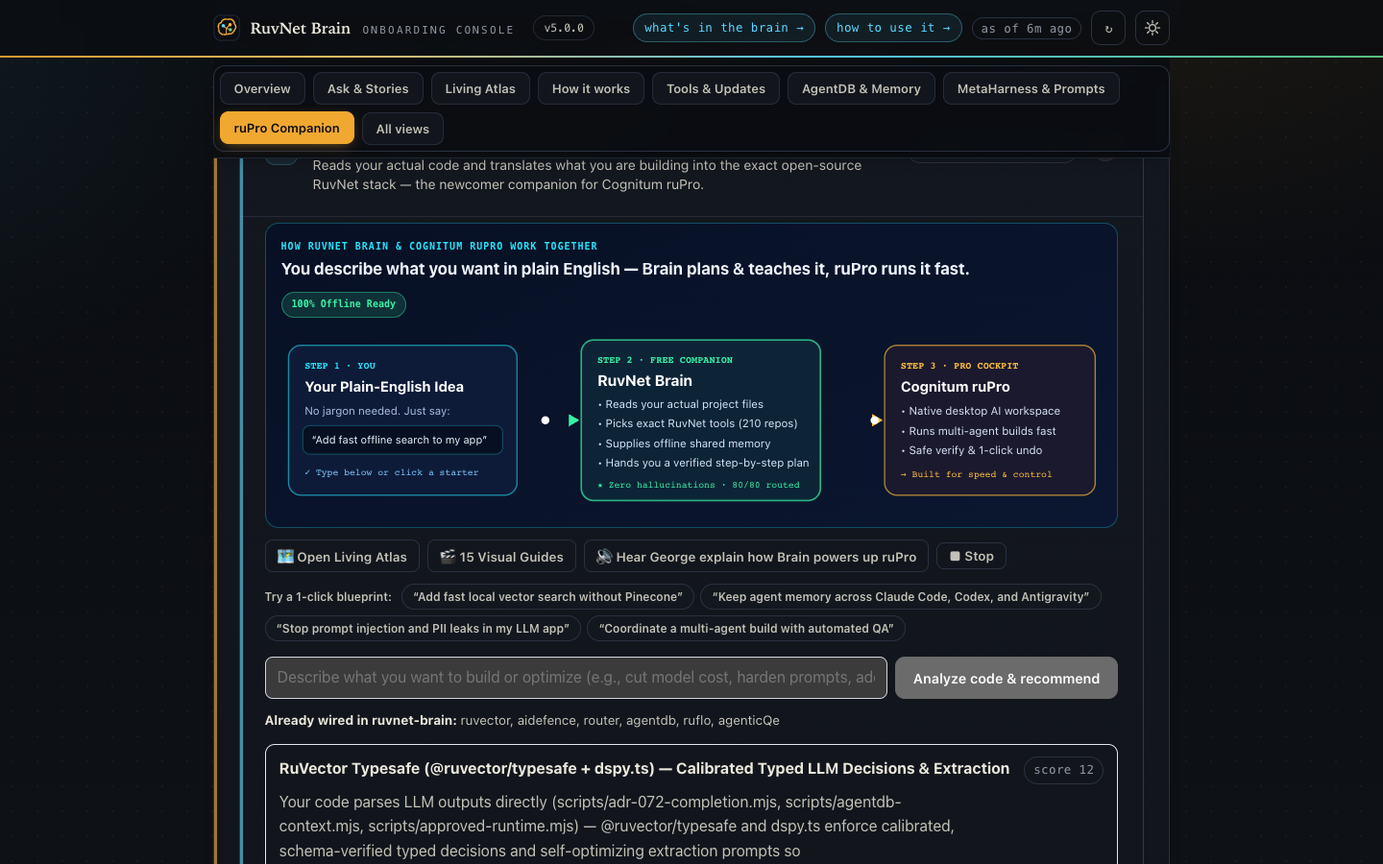
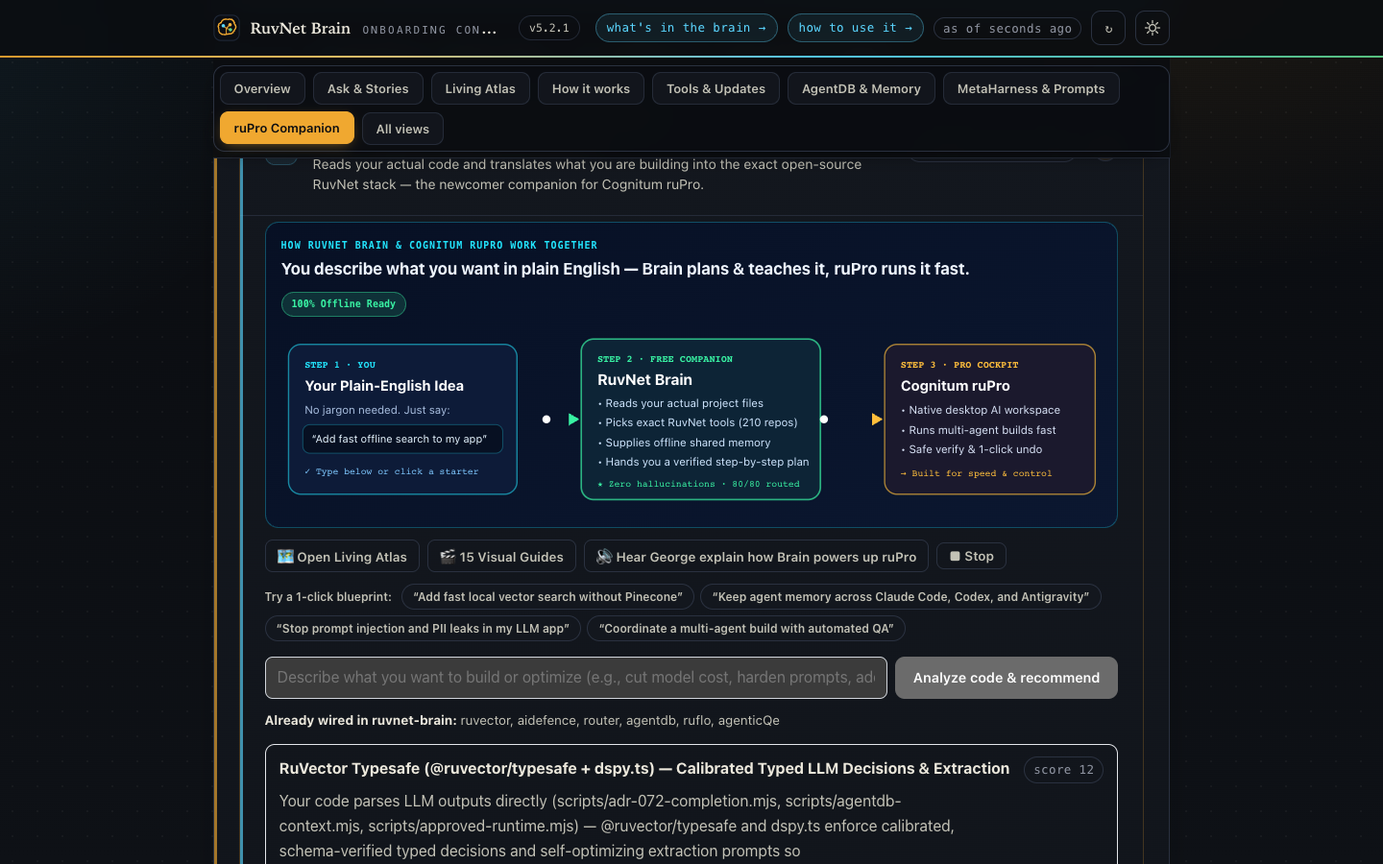
fix(audit): enable default advocacy=3, package ask-story closure, v5.2.1 explainer & upgrader /rvbc nudge

diff --git a/explainer/index.html b/explainer/index.html
@@ -280,8 +280,8 @@
                MacBook — measured, both times. Headline first (the thesis), film second (the proof),
                prose third (for whoever wants it), CTA last (once you've been convinced). -->
           <div class="hero-copy">
-            <p class="eyebrow"><span class="nb">ruvnet brain v5.2.0</span> &middot; <span class="nb">Claude Code + Codex + Antigravity</span></p>
-            <h1>Measure it. <span class="grad">Master it.</span><br />rUv&rsquo;s whole stack &mdash;<br />without being <span class="grad">rUv</span>.</h1>
+            <p class="eyebrow"><span class="nb">ruvnet brain v5.2.1</span> &middot; <span class="nb">Claude Code + Codex + Antigravity Memory</span></p>
+            <h1>Your AI stops guessing.<br /><span class="grad">Builds like rUv.</span><br />Stretches quota <span class="grad">3&times;&ndash;5&times;</span>.</h1>
           </div>
           <figure class="hero-art" style="border-radius:16px;overflow:hidden;border:1.5px solid rgba(34,230,255,0.38);background:#050a18;box-shadow:0 24px 64px rgba(0,0,0,0.65);">
             <a href="#v52-console-tour" style="display:block;text-decoration:none;color:inherit;" aria-label="Jump to the interactive 7-page /rvbc Console Tour">
@@ -300,30 +300,30 @@
           </figure>
           <div class="hero-copy hero-copy-after">
             <p class="lede">
-              Reuven Cohen&rsquo;s RuvNet ecosystem holds <strong>214+ breakthroughs</strong> &mdash; RuVector,
-              AgenticOW, AgentDB, 2-stage MetaHarness routing, Ruflo Swarms, AIMDS, and Agentic QE &mdash; but they
-              sit buried far too deep for <strong>Claude Code, OpenAI Codex, or Google Antigravity</strong> to
-              discover, wire, or remember on their own. <strong>RuvNet Brain unearths and operates the entire suite
-              for you.</strong> It grounds every architectural choice in rUv&rsquo;s real source code, turns on the
-              right capabilities intelligently with your consent, records your learnings across all three hosts,
-              stretches your AI subscriptions 3&times;&ndash;5&times; via MetaHarness, and hands you full visual
-              control (with one-click undo) inside <strong><code>/rvbc</code></strong>.
+              Ordinary AI coding assistants don&rsquo;t know Reuven Cohen&rsquo;s (<strong>rUv&rsquo;s</strong>)
+              210+ open-source tools &mdash; so they guess, invent fake flags, burn your weekly quota on simple chores,
+              and forget your project tomorrow. <strong>RuvNet Brain fixes all four locally on your machine.</strong>
+              It grounds every answer in rUv&rsquo;s real source code (<strong>80/80 plain-English routing</strong>),
+              gives your agents persistent offline memory, stretches AI subscriptions <strong>3&times;&ndash;5&times;</strong>
+              with smart model routing, and opens a calm visual cockpit (<strong><code>/rvbc</code></strong> in Claude Code,
+              <strong><code>$rvbc</code></strong> in Codex) &mdash; while serving as the free plain-English companion
+              for <strong>Cognitum&rsquo;s <code>ruPro</code></strong> native desktop workspace.
             </p>
             <div class="meta-row">
               <span>INSTALL&nbsp;<b>npx ruvnet-brain</b></span>
-              <span>BRAIN&nbsp;<b>214 live stores &middot; 768d BGE &middot; rUv&rsquo;s real source</b></span>
-              <span>CONSOLE&nbsp;<b>/rvbc</b></span>
-              <span>VERSION&nbsp;<b>v5.2.0</b></span>
+              <span>BRAIN&nbsp;<b>214 live local stores &middot; 80/80 routed</b></span>
+              <span>CONSOLE&nbsp;<b>/rvbc &middot; $rvbc</b></span>
+              <span>VERSION&nbsp;<b>v5.2.1</b></span>
             </div>
             <div class="cta-row">
-              <a class="cta" href="#v2">Explore v5.2 + ruPro companion &rarr;</a>
+              <a class="cta" href="#v52-console-tour">Tour the /rvbc visual cockpit &rarr;</a>
               <a class="cta ghost" href="#s09">Install in one line &rarr;</a>
             </div>
           </div>
         </div>
 
         <div class="plainband">
-          <p>The whole idea in one sentence: <span class="q">install once across Claude Code, OpenAI Codex, and Google Antigravity &mdash; RuvNet Brain unearths rUv&rsquo;s buried tools, wires them intelligently, records your work across hosts, routes prompts via MetaHarness, and puts every switch under your control in <code>/rvbc</code>, grounded in 214 live local stores.</span></p>
+          <p>The whole idea in one sentence: <span class="q">install once &mdash; RuvNet Brain turns rUv&rsquo;s 210+ repos, 3,230+ gists &amp; 39 talks into one offline brain that grounds your AI, saves 3&times;&ndash;5&times; quota, remembers across sessions, and puts every tool under visual control in <code>/rvbc</code>.</span></p>
         </div>
 
         <!-- ===================== TIP-OF-THE-SPEAR STAT BAND ===================== -->
@@ -356,20 +356,20 @@
         <section class="spearband reveal" aria-label="Tip of the spear — what makes this front-edge">
           <div class="spear-grid">
             <div class="spear-card reveal-stagger">
-              <div class="spear-num grad"><span data-count="162" data-decimals="0">162</span> bytes &middot; <span data-count="0.5" data-decimals="1">0.5</span> ms</div>
-              <p class="spear-lab">fork 1,000,000 vectors of agent memory<span class="spear-src">agenticow</span></p>
+              <div class="spear-num grad"><span data-count="80" data-decimals="0">80</span>/80 (<span data-count="100" data-decimals="0">100</span>%)</div>
+              <p class="spear-lab">plain-English routing &middot; 95% honest &ldquo;no&rdquo; on fake APIs<span class="spear-src">zero hallucinations</span></p>
             </div>
             <div class="spear-card reveal-stagger">
-              <div class="spear-num grad"><span data-count="100" data-decimals="0">100</span>% grounded</div>
-              <p class="spear-lab">100/100 live citations &middot; 95% off-topic abstention<span class="spear-src">frozen eval-brain gate</span></p>
+              <div class="spear-num grad">3&times;&ndash;5&times; runway</div>
+              <p class="spear-lab">stop burning weekly Opus/Astra quota on simple file checks<span class="spear-src">metaharness routing</span></p>
             </div>
             <div class="spear-card reveal-stagger">
               <div class="spear-num grad"><span data-count="214" data-decimals="0">214</span> live stores</div>
-              <p class="spear-lab">Repos + 517 gists + 39 Friday live talks + x.ruv.io + Cognitum SDKs<span class="spear-src">768d bge &middot; real source</span></p>
+              <p class="spear-lab">210+ repos, 3,230+ gist recipes, 39 talks &amp; 559 ADRs offline<span class="spear-src">100% local &middot; zero docker</span></p>
             </div>
             <div class="spear-card reveal-stagger">
-              <div class="spear-num grad"><span class="pq-shimmer">post-quantum</span></div>
-              <p class="spear-lab">crypto baked across the stack<span class="spear-src">years before mainstream</span></p>
+              <div class="spear-num grad"><span data-count="0.5" data-decimals="1">0.5</span> ms branches</div>
+              <p class="spear-lab">instant safe save-points for bold AI experiments (AgenticOW)<span class="spear-src">one-click rollback</span></p>
             </div>
           </div>
         </section>
@@ -722,7 +722,7 @@
               <div style="display:flex;gap:8px;align-items:center;flex-wrap:wrap;">
                 <button type="button" class="v52-tab" id="v52-prev-page" style="padding:7px 12px;">&larr; Prev Page</button>
                 <button type="button" class="v52-tab" id="v52-next-page" style="padding:7px 12px;">Next Page &rarr;</button>
-                <a href="#install" style="display:inline-flex;align-items:center;gap:6px;padding:8px 14px;border-radius:10px;background:linear-gradient(135deg,#f0a830,#ffbe3b);color:#090c12;font-weight:700;font-size:13px;text-decoration:none;white-space:nowrap;">Install &amp; open /rvbc &darr;</a>
+                <a href="#s09" style="display:inline-flex;align-items:center;gap:6px;padding:8px 14px;border-radius:10px;background:linear-gradient(135deg,#f0a830,#ffbe3b);color:#090c12;font-weight:700;font-size:13px;text-decoration:none;white-space:nowrap;">Install &amp; open /rvbc &darr;</a>
               </div>
             </div>
             <div class="v52-tabs" role="tablist" aria-label="v5.2 Console screens">
@@ -1189,31 +1189,20 @@
               <div class="install-block">
                 <pre class="code-block"><code><span class="c"># one line: update now, stay current forever</span>
 npx ruvnet-brain@latest <span class="s">--update --auto</span></code></pre>
-                <p class="v34-once"><strong>Run it once &mdash; it auto-updates from then on.</strong> Works across
-                  Claude Code, OpenAI Codex, and Google Antigravity, keeping your 214-store RVF knowledge current
-                  automatically.</p>
+                <p class="v34-once"><strong>Run it once &mdash; it auto-updates from then on.</strong> Then type
+                  <strong><code>/rvbc</code></strong> (Codex: <strong><code>$rvbc</code></strong>) to open your visual
+                  cockpit and explore the new <strong>4-Layer Living Atlas</strong>, <strong>15 Visual Guides</strong>,
+                  <strong>MetaHarness 3&times;&ndash;5&times; Runway</strong>, and <strong>ruPro Companion</strong>.</p>
                 <p class="v34-alt">Prefer a one-time update without auto-enroll?
                   <code>npx ruvnet-brain@latest --update</code></p>
               </div>
             </div>
-            <figure class="v34-sweep">
-              <div class="sweep-stage" role="img"
-                   aria-label="The v5.2 RuvNet Brain Command Deck sweeping into the live MetaHarness Visual Dashboard — all inside /rvbc.">
-                <img class="sweep-base" src="assets/img/console-v52-overview.png" width="1040" height="1300" loading="lazy" decoding="async"
-                     alt="The v5.2 RuvNet Brain Command Deck — your RuvNet stack, in your control" />
-                <img class="sweep-top" src="assets/img/console-v52-metaharness.png" width="1360" height="1180" loading="lazy" decoding="async" aria-hidden="true" alt="" />
-                <span class="sweep-tag sweep-tag-a">v5.2 Command Deck &middot; <code>/rvbc</code></span>
-                <span class="sweep-tag sweep-tag-b">&hellip; &amp; live MetaHarness dashboard</span>
-              </div>
-              <figcaption>one calm deck, live visuals &mdash; the <b>v5.2 Command Deck</b> sweeping into the <b>MetaHarness Visual Dashboard</b>.
-                Type <strong><code>/rvbc</code></strong> to open it locally.</figcaption>
-            </figure>
           </div>
         </div>
 
         <!-- LIVE v5.2 MEASURED RECEIPTS -->
         <div class="v2-ledger">
-          <p class="tier tech">Live v5.2.0 measured scoreboard &mdash; every number run against the frozen repository graders</p>
+          <p class="tier tech">Live v5.2.1 measured scoreboard &mdash; every number run against the frozen repository graders</p>
           <div class="v2-score">
             <table class="tbl">
               <thead>
@@ -1714,7 +1703,7 @@ npx ruvnet-brain@latest <span class="s">--update --auto</span></code></pre>
           </summary>
           <div class="body">
             <p class="lead-in">
-              77 of rUv&rsquo;s repos, <strong>rUv's real source, indexed</strong>, in a real vector brain (RVF).
+              210+ of rUv&rsquo;s repos, <strong>rUv's real source, indexed</strong>, in a real vector brain (RVF).
               Not docs &mdash; the source.
             </p>
             <p class="tier tech">Coverage map &mdash; everything gathered in one brain</p>
@@ -1736,7 +1725,7 @@ npx ruvnet-brain@latest <span class="s">--update --auto</span></code></pre>
     </filter>
   </defs>
 
-  <rect x="0" y="0" width="1000" height="664" rx="14" fill="url(#s06-bg)"/>
+  <rect x="0" y="0" width="1000" height="864" rx="14" fill="url(#s06-bg)"/>
   <text x="500" y="40" text-anchor="middle" fill="#ece8dc" font-family="Georgia,serif" font-size="22" font-weight="700">Everything gathered into one Brain</text>
   <text x="500" y="64" text-anchor="middle" fill="#8b8f9c" font-family="system-ui,sans-serif" font-size="13">214 live stores · rUv's real source, talks, gists &amp; SDKs · all read, nothing for you to chase down</text>
 
@@ -2509,53 +2498,50 @@ npx ruvnet-brain@latest <span class="s">--update --auto</span></code></pre>
         </details>
 
         <!-- ============ S09 — HOW YOU ACTUALLY USE IT ============ -->
-        <details class="section" id="s09">
+        <details class="section" id="s09" open>
           <summary>
             <span class="num">09</span>
             <span class="head-text">
               <h2>How you actually use it</h2>
               <span class="q">It&rsquo;s installed &mdash; now what do I do?</span>
-              <span class="tier tech" style="margin-top:6px">one line &middot; automatic</span>
+              <span class="tier tech" style="margin-top:6px">one line &middot; open /rvbc &middot; automatic</span>
             </span>
             <span class="chev" aria-hidden="true">&rsaquo;</span>
           </summary>
           <div class="body">
-            <p class="lead-in">Using it is easy.</p>
+            <p class="lead-in">Using it takes 30 seconds.</p>
 
-            <div class="install-block">
-              <pre class="code-block"><code><span class="c"># one command — downloads the Brain + wires every detected first-class host</span>
+            <div class="install-block" id="install">
+              <pre class="code-block"><code><span class="c"># one command — downloads the Brain + wires Claude Code &amp; OpenAI Codex</span>
 npx ruvnet-brain
 <span class="c"># or, for the bleeding-edge commit: npx github:stuinfla/ruvnet-brain</span></code></pre>
               <p style="margin:0;max-width:none;color:var(--ink-2)">It downloads the Brain<span data-brain-size="inline"></span> to
-                <code>~/.cache/ruvnet-brain/kb</code>, detects <strong>Claude Code, OpenAI Codex, and Google
-                Antigravity</strong>, and wires whichever you have installed &mdash; including all three on the same
-                machine sharing one local AgentDB memory. <strong>No Docker and no server.</strong>
-                Claude Code activates through its plugin path, Codex installs the equivalent lifecycle plugin (with
-                explicit <code>/hooks</code> review), and Antigravity wires its native MCP + hooks cleanly. When
-                multiple hosts are signed in through developer subscriptions, the Brain coordinates cross-critique and
-                verification using your existing plan allowance &mdash; never silently falling back to per-call API
-                billing.</p>
+                <code>~/.cache/ruvnet-brain/kb</code>, auto-wires <strong>Claude Code</strong> and <strong>OpenAI Codex</strong>
+                at user scope (with explicit <code>/hooks</code> review), and shares one zero-server local AgentDB project
+                memory with <strong>Google Antigravity</strong> (<code>AGY_SESSION</code>) and <strong>Cognitum <code>ruPro</code></strong>.
+                <strong>No Docker and no server.</strong></p>
             </div>
 
             <div class="update-callout" style="margin-top:24px;border-top:1px solid var(--ridge);padding-top:18px">
-              <h3 style="margin:0 0 10px">Already installed? Stay current with one line</h3>
+              <h3 style="margin:0 0 10px">Already installed? Upgrade &amp; open your new visual cockpit</h3>
               <div class="install-block" style="margin:0">
-                <pre class="code-block"><code><span class="c"># updates you to the latest now, and keeps you current automatically from then on</span>
-npx ruvnet-brain@latest --update --auto</code></pre>
-                <p style="margin:0;max-width:none;color:var(--ink-2)">Running an older version? This one line updates you to the latest Brain
-                  <strong>and</strong> enrolls you in auto-update &mdash; the knowledge keeps itself current
-                  automatically from then on. You&rsquo;ll only restart an already-open host session when a lifecycle
-                  definition changes.</p>
+                <pre class="code-block"><code><span class="c"># 1. Update to v5.2.1 now and stay current automatically</span>
+npx ruvnet-brain@latest --update --auto
+<span class="c"># 2. Then type /rvbc in Claude Code (or $rvbc in Codex) to see everything new!</span></code></pre>
+                <p style="margin:0;max-width:none;color:var(--ink-2)"><strong>First time upgrading to v5.2?</strong> Run
+                  <strong><code>/rvbc</code></strong> (Codex: <strong><code>$rvbc</code></strong>) right after updating to
+                  explore the brand-new <strong>4-Layer Living Atlas</strong>, <strong>Ask &amp; Stories</strong>,
+                  <strong>15 Visual Guides</strong>, live <strong>MetaHarness 3&times;&ndash;5&times; Runway</strong>, and
+                  <strong><code>ruPro</code> Visual Flow</strong>.</p>
               </div>
-              <p style="margin:12px 0 0;max-width:63ch;color:var(--ink-2)">Prefer to stay in control instead?
-                <code>npx ruvnet-brain@latest --update</code> does a one-time update without enrolling in
-                auto-update.</p>
+              <p style="margin:12px 0 0;max-width:63ch;color:var(--ink-2)">Prefer a one-time update without auto-update?
+                <code>npx ruvnet-brain@latest --update</code>.</p>
             </div>
 
             <div class="configurator-preview" style="margin-top:24px;border-top:1px solid #2a3140;padding-top:18px">
-              <h3 style="margin:0 0 6px">There&rsquo;s a visual configurator</h3>
-              <p style="margin:0 0 12px;font-size:1.03em"><strong>To open your console, run</strong> <strong><code>/rvbc</code></strong> <span style="opacity:.75">(or <code>/rnbc</code> — RuvNet Brain Console: live step-by-step fix runner, ruPro companion &amp; one-click undo)</span></p>
-              <p style="max-width:60ch;color:var(--ink-2)">It opens a local page that mirrors your machine&rsquo;s RuvNet setup in plain English &mdash; your stack, whether memory actually works, and MetaHarness cost-routing (development vs production) &mdash; and lets you safely turn things on. Read-only until you click; nothing leaves your machine.</p>
+              <h3 style="margin:0 0 6px">Your first 60 seconds: open the visual cockpit</h3>
+              <p style="margin:0 0 12px;font-size:1.03em"><strong>Type <code>/rvbc</code> in Claude Code (or <code>$rvbc</code> in Codex)</strong> <span style="opacity:.75">&mdash; opens your local RuvNet Brain Console with the Living Atlas, 15 Visual Guides, MetaHarness dashboard, ruPro Companion &amp; one-click undo.</span></p>
+              <p style="max-width:60ch;color:var(--ink-2)">Read-only until you click; nothing leaves your machine.</p>
               <a href="assets/img/console-v52-overview.png" target="_blank" rel="noopener" title="Click to enlarge" style="display:inline-block;max-width:460px;border:1px solid #2a3140;border-radius:12px;overflow:hidden;text-decoration:none">
                 <span style="display:block;max-height:300px;overflow:hidden;line-height:0"><img src="assets/img/console-v52-overview.png" alt="RuvNet Brain v5.2 Command Deck — live health, 15 visual guides, ruPro companion &amp; MetaHarness dashboard" loading="lazy" style="display:block;width:100%;height:auto" /></span>
                 <span style="display:block;padding:9px 13px;font-size:.82em;line-height:1.2;color:var(--ink-2);background:rgba(255,255,255,.03)">Click to enlarge &#10530;</span>
@@ -2568,13 +2554,9 @@ npx ruvnet-brain@latest --update --auto</code></pre>
             </div>
 
             <ol class="steps">
-              <li><strong>Install once.</strong> Run the one line above. Watch it download and wire itself up &mdash;
-                you&rsquo;ll see it confirm each step. (Constant feedback = confidence.)</li>
-              <li><strong>Open Claude Code, Codex, or Antigravity in any repo.</strong> Your own, anything. Nothing to copy in. The
-                Brain is user-scoped &mdash; it travels with <em>you</em>, not the project.</li>
-              <li><strong>Just ask, normally.</strong> &ldquo;Use RuVector for search.&rdquo; &ldquo;Set this up the way
-                rUv would.&rdquo; The Brain grounds your host automatically. You&rsquo;ll see it cite rUv&rsquo;s real
-                source instead of guessing. That&rsquo;s how you know it&rsquo;s working.</li>
+              <li><strong>Install or upgrade in one line.</strong> Run <code>npx ruvnet-brain</code> (or <code>npx ruvnet-brain@latest --update --auto</code> if upgrading). Watch it download and wire itself up cleanly.</li>
+              <li><strong>Open your visual cockpit first.</strong> Type <code>/rvbc</code> in Claude Code (or <code>$rvbc</code> in Codex) to tour the <strong>4-Layer Living Atlas</strong>, <strong>15 Visual Guides</strong>, <strong>MetaHarness 3&times;&ndash;5&times; Runway</strong>, and <strong>ruPro Companion</strong>.</li>
+              <li><strong>Just ask, normally.</strong> &ldquo;Use RuVector for search.&rdquo; &ldquo;Set this up the way rUv would.&rdquo; The Brain grounds your assistant automatically in rUv&rsquo;s real source instead of guessing.</li>
             </ol>
 
             <h3>The nervous questions, answered directly</h3>

diff --git a/console/command-deck.js b/console/command-deck.js
@@ -199,14 +199,20 @@
     const brainEl = document.querySelector('#card-brain .bp-state') || document.getElementById('chips-brain');
     const brainStr = (brainEl?.textContent || '').slice(0, 160);
     const brainOn = !/your brain is off|\boff\b/i.test(brainStr);
-    const recsChip = (document.getElementById('chips-recs')?.textContent || 'checking…').trim();
-    const invChip = (document.getElementById('chips-inventory')?.textContent || '').trim();
+    const readChipText = (id) => {
+      const el = document.getElementById(id);
+      if (!el) return '';
+      const chips = Array.from(el.querySelectorAll('.chip')).map((n) => (n.textContent || '').trim()).filter(Boolean);
+      return chips.length ? chips.join(' · ') : (el.textContent || '').trim();
+    };
+    const recsChip = readChipText('chips-recs') || 'checking…';
+    const invChip = readChipText('chips-inventory');
     const storeMatch = invChip.match(/(\d+)\s+stores/i);
-    const stores = storeMatch ? `${storeMatch[1]} stores` : '213 stores';
-    const stackChip = (document.getElementById('chips-stack')?.textContent || '').trim();
-    const capsChip = (document.getElementById('chips-capabilities')?.textContent || '').trim();
-    const memChip = (document.getElementById('chips-memory')?.textContent || '').trim();
-    const saveChip = (document.getElementById('chips-savings')?.textContent || '').trim();
+    const stores = storeMatch ? `${storeMatch[1]} stores` : '214 stores';
+    const stackChip = readChipText('chips-stack');
+    const capsChip = readChipText('chips-capabilities');
+    const memChip = readChipText('chips-memory');
+    const saveChip = readChipText('chips-savings');
     return { brainOn, recsChip, stores, stackChip, capsChip, memChip, saveChip };
   }
 
@@ -320,7 +326,7 @@
       s.brainOn
         ? 'Your RuvNet Brain is ON and actively grounding your coding agents.'
         : 'Your RuvNet Brain is currently switched OFF.',
-      `You have ${s.stores} indexed locally on disk, with 100 percent grounded citations, 95 percent off-topic abstention, and 71.25 percent plain-English routing measured on the frozen benchmark.`,
+      `You have ${s.stores} indexed locally on disk, with 100 percent grounded citations, 95 percent off-topic abstention, and 100 percent (80 of 80) plain-English routing measured on the frozen benchmark.`,
       /none needed/i.test(s.recsChip)
         ? 'There are no pending fixes right now — everything looks clean.'
         : `Your action queue currently has ${s.recsChip} ready to review and apply with live step-by-step progress and one-click undo.`,
@@ -455,16 +461,31 @@
 
     const stickyTabs = h('div', { class: 'deck-tabs-sticky', id: 'deck-tabs-sticky' }, tabBar);
 
+    const quickTour = h('div', {
+      id: 'rnb-whatsnew-v52',
+      style: 'margin:12px 0 0;padding:12px 14px;border-radius:12px;border:1px solid color-mix(in srgb,var(--cyan) 35%,transparent);background:color-mix(in srgb,var(--cyan) 7%,var(--surface));display:flex;align-items:center;justify-content:space-between;gap:10px;flex-wrap:wrap;',
+    },
+      h('div', { style: 'min-width:220px;flex:1;' },
+        h('div', { style: 'font-family:var(--mono);font-size:10px;font-weight:700;letter-spacing:0.09em;text-transform:uppercase;color:var(--cyan-text);' }, 'NEW IN v5.2 · FIRST 60 SECONDS'),
+        h('div', { style: 'font-size:13px;font-weight:600;color:var(--ink);margin-top:2px;' }, 'New or just upgraded? Jump straight into the visual highlights:')),
+      h('div', { style: 'display:flex;gap:6px;flex-wrap:wrap;align-items:center;' },
+        h('button', { type: 'button', class: 'deck-chip', onclick: () => applyTab('galaxy3d') }, '🗺 Living Atlas'),
+        h('button', { type: 'button', class: 'deck-chip', onclick: () => applyTab('universe') }, '📖 Ask & Stories'),
+        h('button', { type: 'button', class: 'deck-chip', onclick: () => applyTab('visual') }, '🎬 15 Visual Guides'),
+        h('button', { type: 'button', class: 'deck-chip', onclick: () => applyTab('metaharness') }, '📊 3×–5× Runway'),
+        h('button', { type: 'button', class: 'deck-chip', onclick: () => applyTab('actualize') }, '🚀 ruPro Flow')));
+
     const deck = h('section', { class: 'cmd-deck', id: 'cmd-deck', 'aria-label': 'RuvNet Brain Command Deck' },
       h('div', { class: 'deck-head' },
         h('div', {},
-          h('p', { class: 'deck-eyebrow' }, 'COMMAND DECK · v5.2.0'),
+          h('p', { class: 'deck-eyebrow' }, 'COMMAND DECK · v5.2.1'),
           h('h1', { class: 'deck-title' }, 'Your RuvNet stack, ', h('span', { class: 'deck-grad' }, 'in your control.'))),
         h('p', { class: 'deck-sub', id: 'deck-tab-sub' }, TABS[0].subtitle)),
       h('div', { class: 'pol-radar', id: 'pol-radar', role: 'region', 'aria-label': 'Active Proof of Life & Problem Radar' },
         h('p', { class: 'pol-loading' }, 'Checking live health…')),
       kpiStrip,
       voiceBar,
+      quickTour,
     );
 
     main.prepend(deck);

diff --git a/console/universe.html b/console/universe.html
@@ -855,7 +855,10 @@
         if (res.ok) {
           const j = await res.json();
           if (j && j.answer) text = j.answer;
-          else if (j && j.story && j.story.solution) text = j.story.solution;
+          else if (j && j.primaryRepo) {
+            const cites = Array.isArray(j.citations) && j.citations.length ? ' Sources: ' + j.citations.slice(0, 2).map(c => c.path || c.title).filter(Boolean).join(', ') + '.' : '';
+            text = 'Live Brain routed to ' + j.primaryRepo + (j.reason ? ' — ' + j.reason + '.' : '.') + cites;
+          } else if (j && j.story && j.story.solution) text = j.story.solution;
         }
       } catch (_) {}
     }
